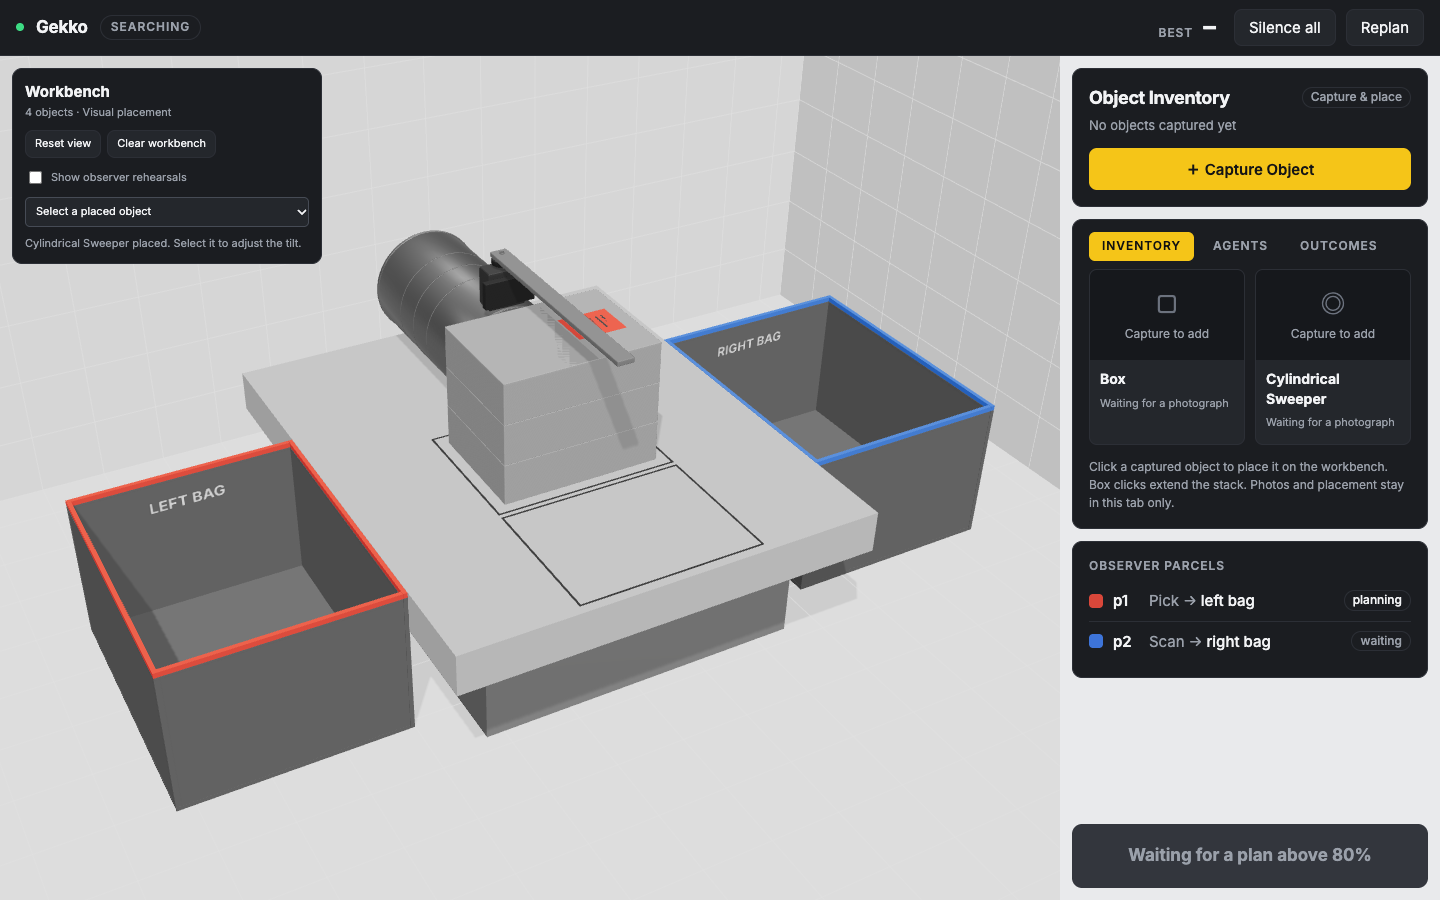
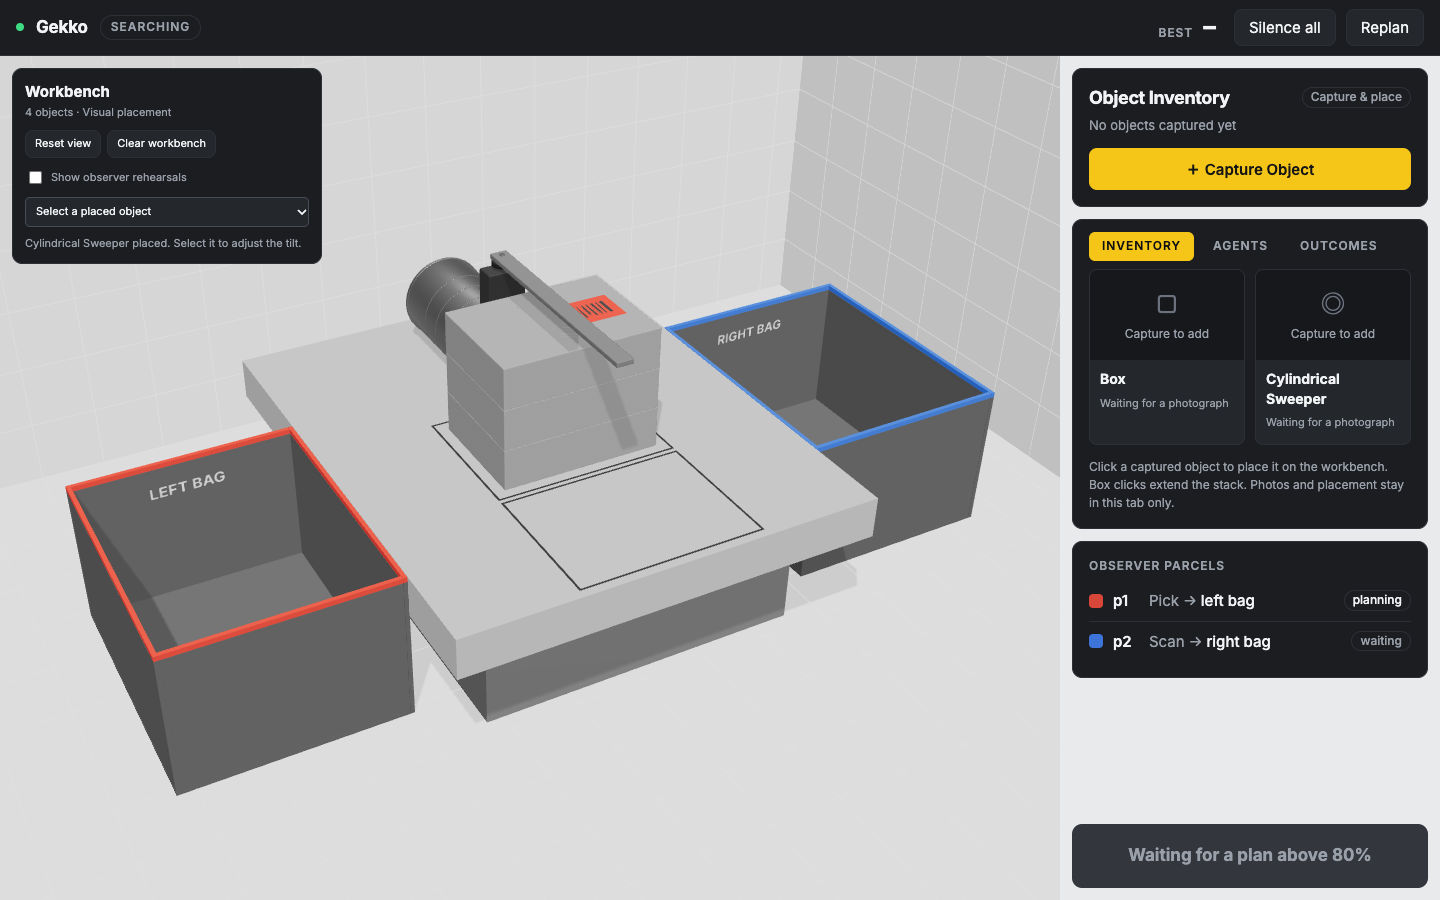
Viewer: front-edge tilt pivot, smaller can, per-box reach report
All values are placeholders ("measured": false), mm, z-up.

- Tilt pivot moved to the can's front-bottom edge: positive tilt lifts
  the back and lowers the stick tip. Limits 0 to 35 deg, since any
  negative tilt pushes the back into the bench. A test checks that no
  vertex of the can, rims, riser or servo goes below the bench top over
  the whole range.
- Can is 50 mm across and 90 mm long. Rims and ribs are rescaled with it.
  The servo sits on a 6.4 mm riser (the old bracket, refitted) so the
  stick's underside is 10 mm above a 3-box stack at tilt 0. Stick stays
  140 mm and the bench 250 mm; changing them would not help (below).
- Manifest collision shapes (now including the riser) and joint pivots
  synced to config.
- Reach test per box, with zero penetration of the bench and of the other
  boxes:
  top: works for tilt 11.5-32 deg; at 31.5 deg red contacts at servo 0
  and sweeps to 176, blue contacts at 179 and sweeps to 4; 10.0 mm past
  each edge.
  middle: not reachable. Its face is first reached at 29.5 deg, but
  tipping forward throws the servo over the stack and the stick cuts
  through the top box.
  bottom: not reachable within the tilt limits.
- Screenshots retaken: forward (debug on and off), far left and far right
  at 31.5 deg.

diff --git a/docs/models.md b/docs/models.md
@@ -243,24 +243,30 @@ x × y × z because it stands on its 10 mm edge with 3 mm along the shaft.
 
 ## Lying-can sweeper and the sideways sort
 
-The can lies on its side along y, behind the stack on the bench centreline, its front
-end 15 mm behind the stack (`sweeperGapToStackMm`). It rests on its rolled rims. The
-servo sits on top near the front end with its shaft straight up; servo 0° points the
-stick right (+x), 90° forward over the stack, 180° left. Manual tilt turns the whole
-assembly about an x axis through the can's bottom-back edge; positive tilt lowers the
-tip (limits -20° to 35°). The GLB was baked upright with a horizontal shaft:
-`model-fit.mjs` turns the can frame, re-parents `servo_mount` to `assembly_tilt` and
-sets the shaft vertical at load time. Blender has not been rerun.
+The can (diameter 50, length 90, placeholder) lies on its side along y, behind the stack
+on the bench centreline, its front end 15 mm behind the stack, resting on its rims. The
+servo sits on a 6.4 mm riser on top of the can near its front end, shaft straight up, so
+at tilt 0 the stick's underside is 10 mm above a 3-box stack. Servo 0° points the stick
+right (+x), 90° forward over the stack, 180° left. Manual tilt turns the assembly about
+an x axis through the can's front-bottom edge: positive tilt lifts the back of the can
+and lowers the stick tip. The limits are 0° to 35°; negative tilt would push the back
+into the bench. The GLB was baked upright with a horizontal shaft; `model-fit.mjs` turns
+the can, rescales its rims and ribs, turns the bracket into the riser, re-parents
+`servo_mount` to `assembly_tilt` and sets the shaft vertical at load time.
 
-Reach (kinematic, `tests/fit.test.mjs`): with a 420 mm bench the 120 mm stick left the
-contact point about 95 mm short of each edge. Narrowing the bench to its 250 mm minimum
-left it 10 mm short; changing the gap did not help (a larger gap pushes the can off the
-back). The stick is lengthened to 140 mm (135 mm is the bare minimum). Both sides then
-work for tilts 7° to 13.5°; at 13.5° the stick first touches the top box's side face at
-servo 0° (red) or 180° (blue) and carries the contact point 10 mm past the bench edge.
-This assumes the box slides straight sideways; rotation and friction are for the
-physics simulation.
+Reach (kinematic, `tests/fit.test.mjs`, zero penetration of the bench and of any box
+other than the one pushed; contact within 1 mm):
 
-Known physical problem: with the pivot on the bottom-back edge, lowering the tip drives
-the can's front end into the bench (14 mm at 7°, 27 mm at 13.5°). A real rig needs the
-can's back end raised, or the pivot moved to the front-bottom edge.
+- Top box: works for tilt 11.5° to 32°. At 31.5°, red goes left with first contact on
+  the right face at servo 0° and the sweep to 176°; blue goes right with contact at 179°
+  and the sweep to 4°. The contact point passes each bench edge by 10.0 mm.
+- Middle box: not reachable. The stick first reaches its side face at tilt 29.5°, but
+  tipping about the front edge also throws the servo forward over the stack, so every
+  such pose cuts through the top box.
+- Bottom box: not reachable. No tilt within limits brings the stick to its side face.
+
+The stick's swing plane stays 86.5 mm from the pivot line, so at the stack's back face,
+15 mm in front of the pivot, it can never come lower than about 85 mm above the bench.
+Analytic trials found the middle box reachable only with the stack moved forward into
+the scan zone, a 95 mm gap and a 160 mm stick, and the bottom box in none of them.
+The kinematic check assumes the pushed box slides straight sideways.
